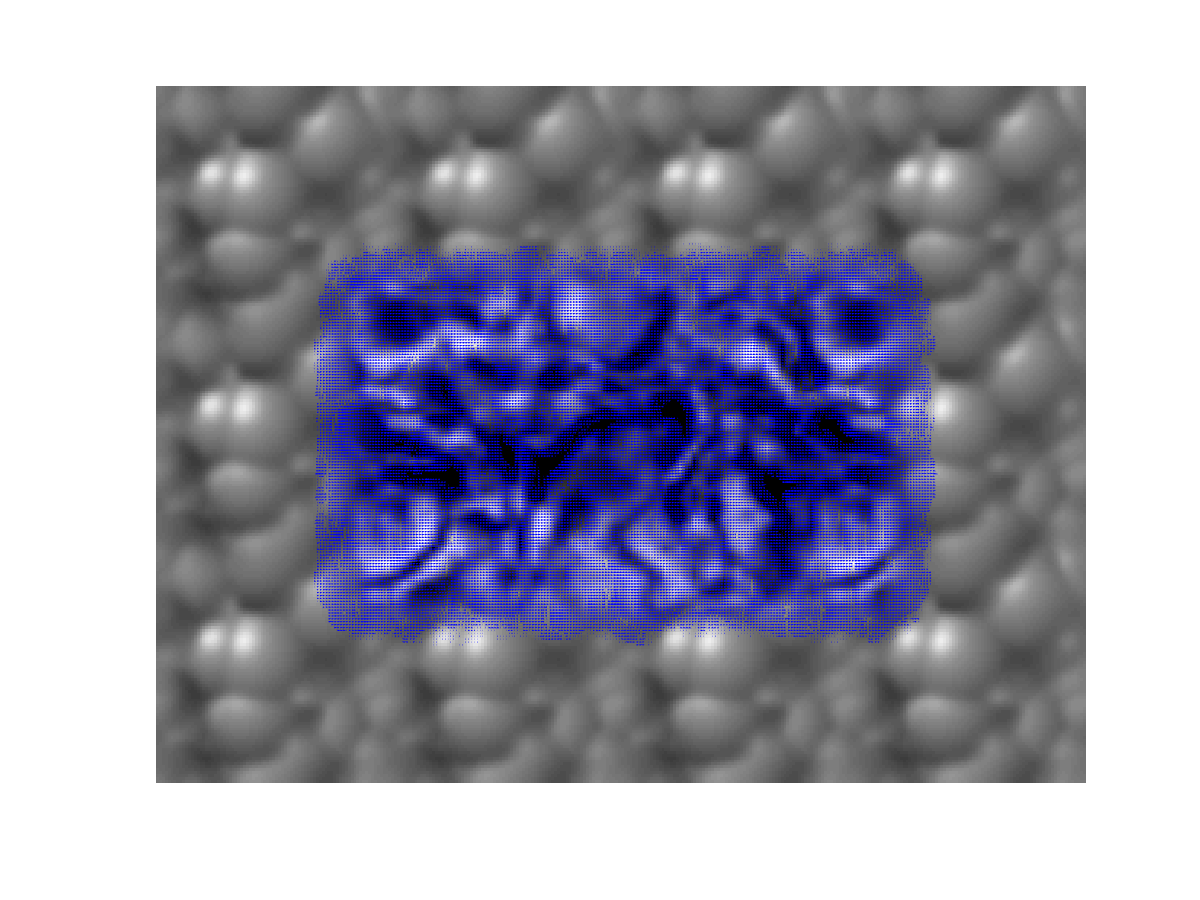
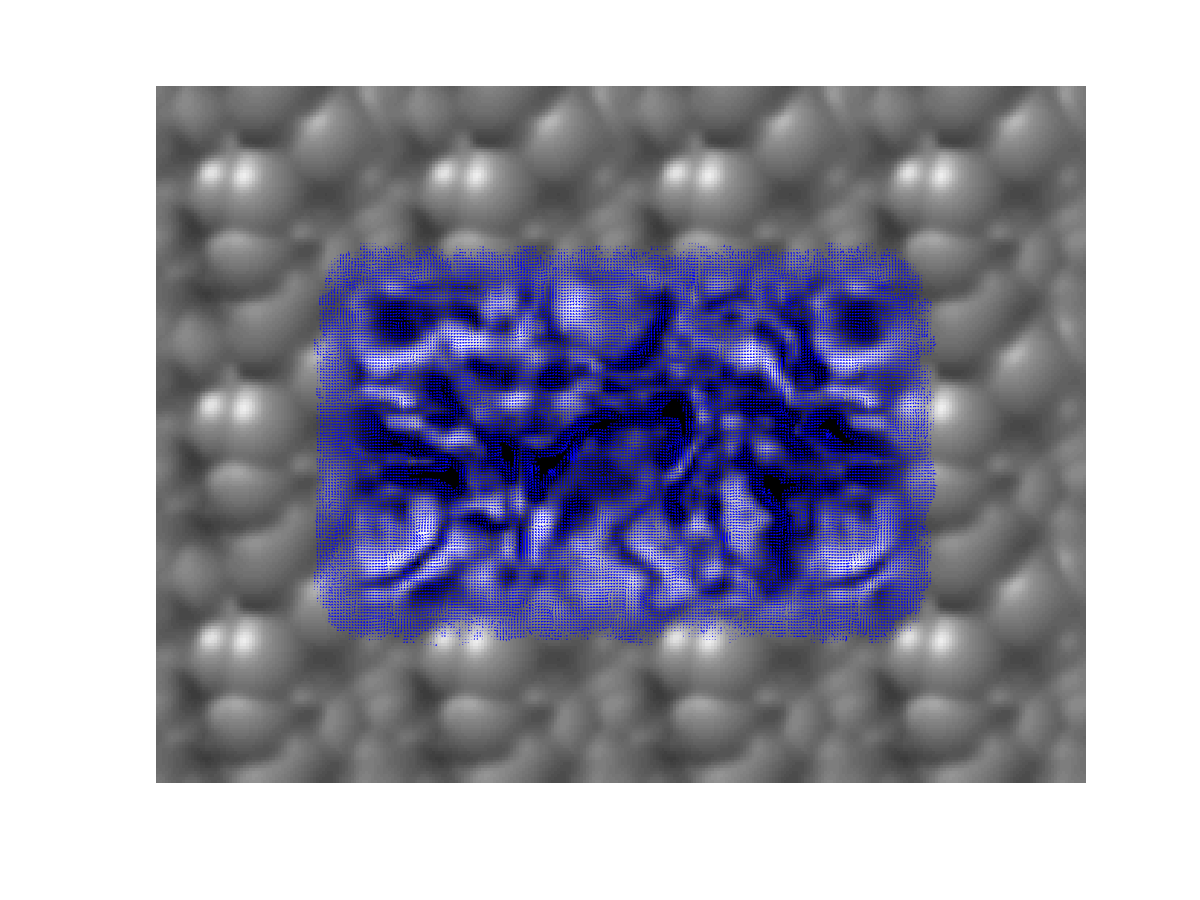
update ps5 part1-a

Changed region(s): [[0.2467, 0.28, 0.7708, 0.7156]]

diff --git a/georgiatech_cs4495/ps5_octave/basic_lk.m b/georgiatech_cs4495/ps5_octave/basic_lk.m
@@ -11,7 +11,7 @@ function [u, v] = basic_lk(img1, img2)
 	
 	sobel = fspecial('sobel');
 	Iy = imfilter(img_smoothed1, sobel);
-	Ix = imfilter(img_smoothed2, -sobel');
+	Ix = imfilter(img_smoothed1, -sobel');
 	It = img2 - img1;
 	
 	IxIx = Ix .^ 2;
@@ -31,11 +31,11 @@ function [u, v] = basic_lk(img1, img2)
 	
 	for i = 1 : size(img1, 1)
 		for j = 1 : size(img1, 2)
-			v = [IxIx_win(i, j), IxIy_win(i, j); ...
+			dir = [IxIx_win(i, j), IxIy_win(i, j); ...
 			     IxIy_win(i, j), IyIy_win(i, j)] \ ...
 			   -[IxIt_win(i, j); IyIt_win(i, j)];
-			u(i, j) = v(1);
-			v(i, j) = v(2);
+			u(i, j) = dir(1);
+			v(i, j) = dir(2);
 		end
 	end
 end
